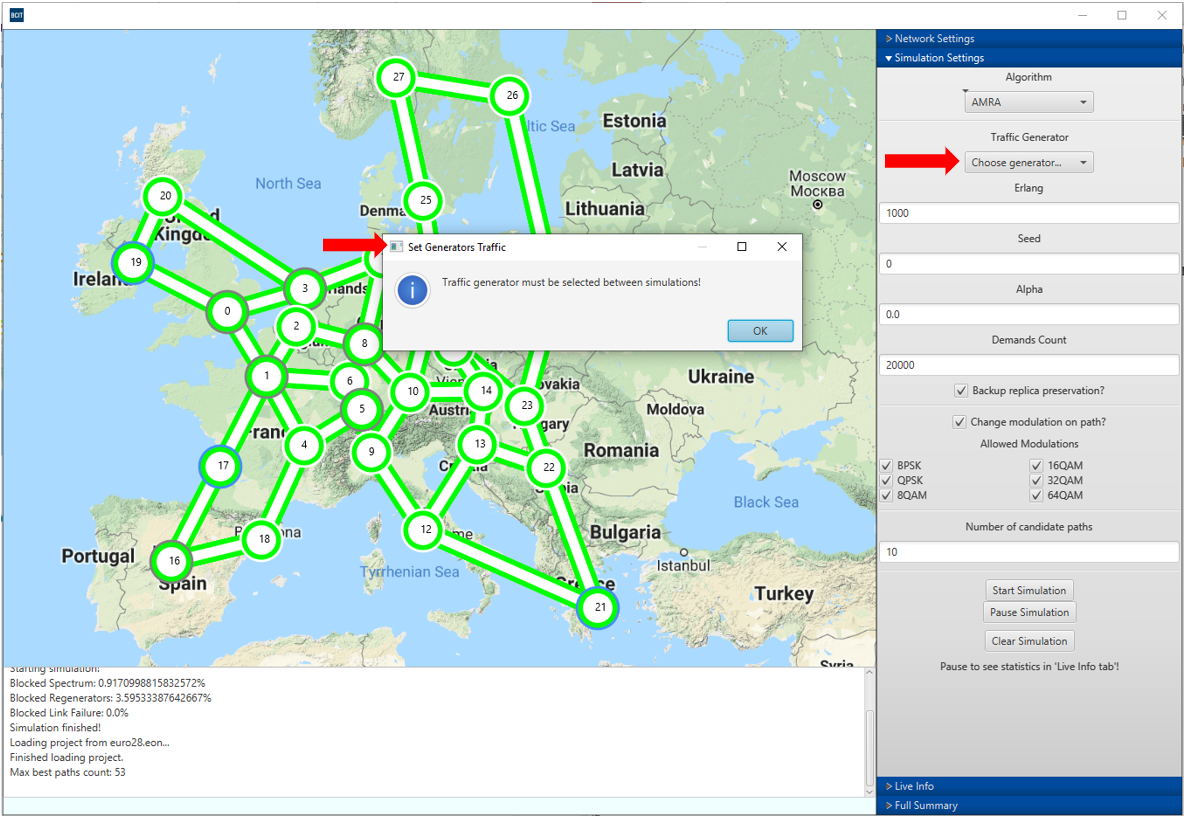
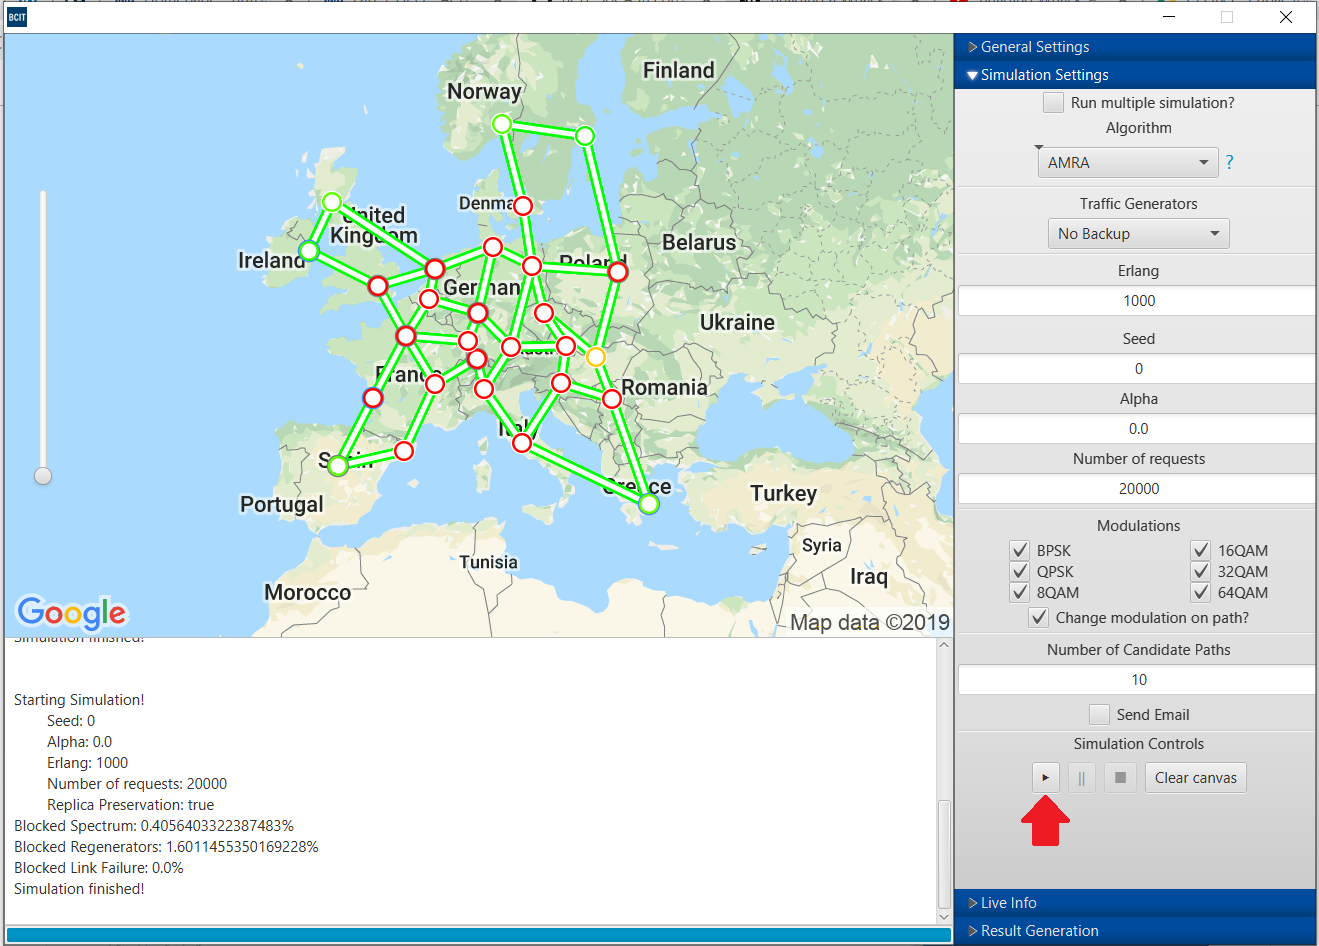
Updated Screenshots
Updated Screenshots and Readme related to it
Screenshots: 11, 12, 13, 14

diff --git a/README.md b/README.md
@@ -310,7 +310,7 @@ Figure B: Network simulation in progress showing link and regenerator usage
 
 ## 1) Simulation in progress
 
-1. In **Simulation Settings**, click **Cancel Simulation**
+1. In **Simulation Settings**, click the **STOP** button
 
 2. Click **OK** 
 
@@ -320,33 +320,25 @@ Figure A: Canceling the simulation while it’s running
 
 ## 2) Simulation Finished
 
-1. In **Simulation Settings**, click **Clear Simulation**
-
-2. Click **OK** (or **Cancel** to resume)
-
-3. Wait for network topology to finish loading and calculating available paths.
+1. Wait for network topology to finish loading and calculating available paths (this happens automatically after a simulation is done).
 
 ![image alt text](./docs/image_11.png)
 
-Figure B: Clearing the simulation when it’s finished, simulation results shown in the console
+Figure B: Waiting for the simulation when it’s finished, simulation results shown in the console
 
 ## 3)  Restarting a simulation after cancel/clear
 
-Traffic Generator will be reset after cancel/clear simulation. Please remember to Set Generators Traffic.
-
-1. In **Simulation Settings**, click **Traffic Generator** and select **No Backup** or **Dedicated Backup** or **Shared Backup**
-
-2. Click **OK**
+2. Click the **PLAY** button
 
 ![image alt text](./docs/image_12.png)
 
-Figure C: Setting Traffic Generator after cancel/clear and map load
+Figure C: Unpausing the simulation
 
 # VII.  To see live simulation statistics
 
 ## 1.0)  Pause Live Simulation
 
-1. In **Simulation Settings**, press **Pause Simulation**
+1. In **Simulation Settings**, press the **Pause** button
 
 2. Live Info panel will automatically open
 
